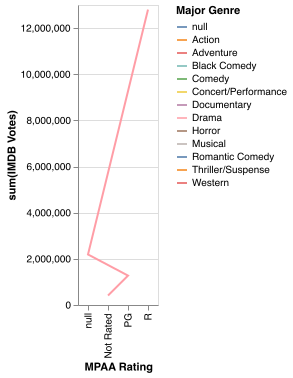
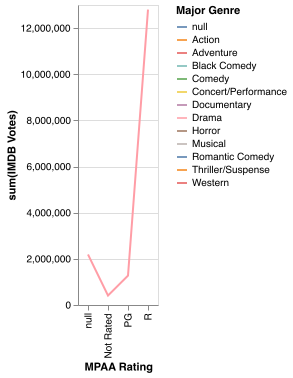
fix: do not apply the order for non-stacked non-grouped chart

diff --git a/test/compile/unit.test.ts b/test/compile/unit.test.ts
@@ -122,10 +122,38 @@ describe('UnitModel', () => {
       const model = parseUnitModel({
         mark: 'bar',
         encoding: {
+          y: {field: 'b', type: 'quantitative'},
           color: {field: 'a', scale: {domain: ['y', 'x', 'z']}},
         },
       });
 
+      expect(model.encoding.order).toEqual({field: '_a_sort_index', type: 'quantitative', sort: 'descending'});
+    });
+
+    it('should not add custom order if it is not stacked chart', () => {
+      const model = parseUnitModel({
+        mark: 'bar',
+        encoding: {
+          color: {field: 'a', scale: {domain: ['y', 'x', 'z']}},
+        },
+      });
+
+      expect(model.encoding.order).toBeUndefined();
+    });
+
+    it('should add custom order if color or fill domain is specified with null for stacked bars', () => {
+      const model = parseUnitModel({
+        mark: 'bar',
+        encoding: {
+          y: {field: 'b', type: 'quantitative'},
+          color: {field: 'a', scale: {domain: [null, 'y', 'x', 'z']}},
+        },
+      });
+
+      expect(model.transforms[0]).toEqual({
+        as: '_a_sort_index',
+        calculate: 'indexof([null,"y","x","z"], datum[\'a\'])',
+      });
       expect(model.encoding.order).toEqual({field: '_a_sort_index', type: 'quantitative', sort: 'descending'});
     });
   });

diff --git a/src/compile/unit.ts b/src/compile/unit.ts
@@ -242,11 +242,15 @@ export class UnitModel extends ModelWithField {
     const orderFieldName = `_${field}_sort_index`;
 
     if (!order && Array.isArray(domain) && typeof field === 'string' && colorEncodingType === 'nominal') {
-      // align grouped bar order with color domain
+      // align grouped chart order with color domain
       if (offsetEncoding && !offsetEncoding.sort) {
         offsetEncoding.sort = domain as [];
       } else {
-        // align stacked bar and area order with color domain
+        // align stacked chart order with color domain
+        if (!this.stack) {
+          return;
+        }
+
         const orderExpression = `indexof(${stringValue(domain)}, datum['${field}'])`;
         const sort = this.markDef?.orient === 'horizontal' ? 'ascending' : 'descending';
         this.transforms.push({calculate: orderExpression, as: orderFieldName});
